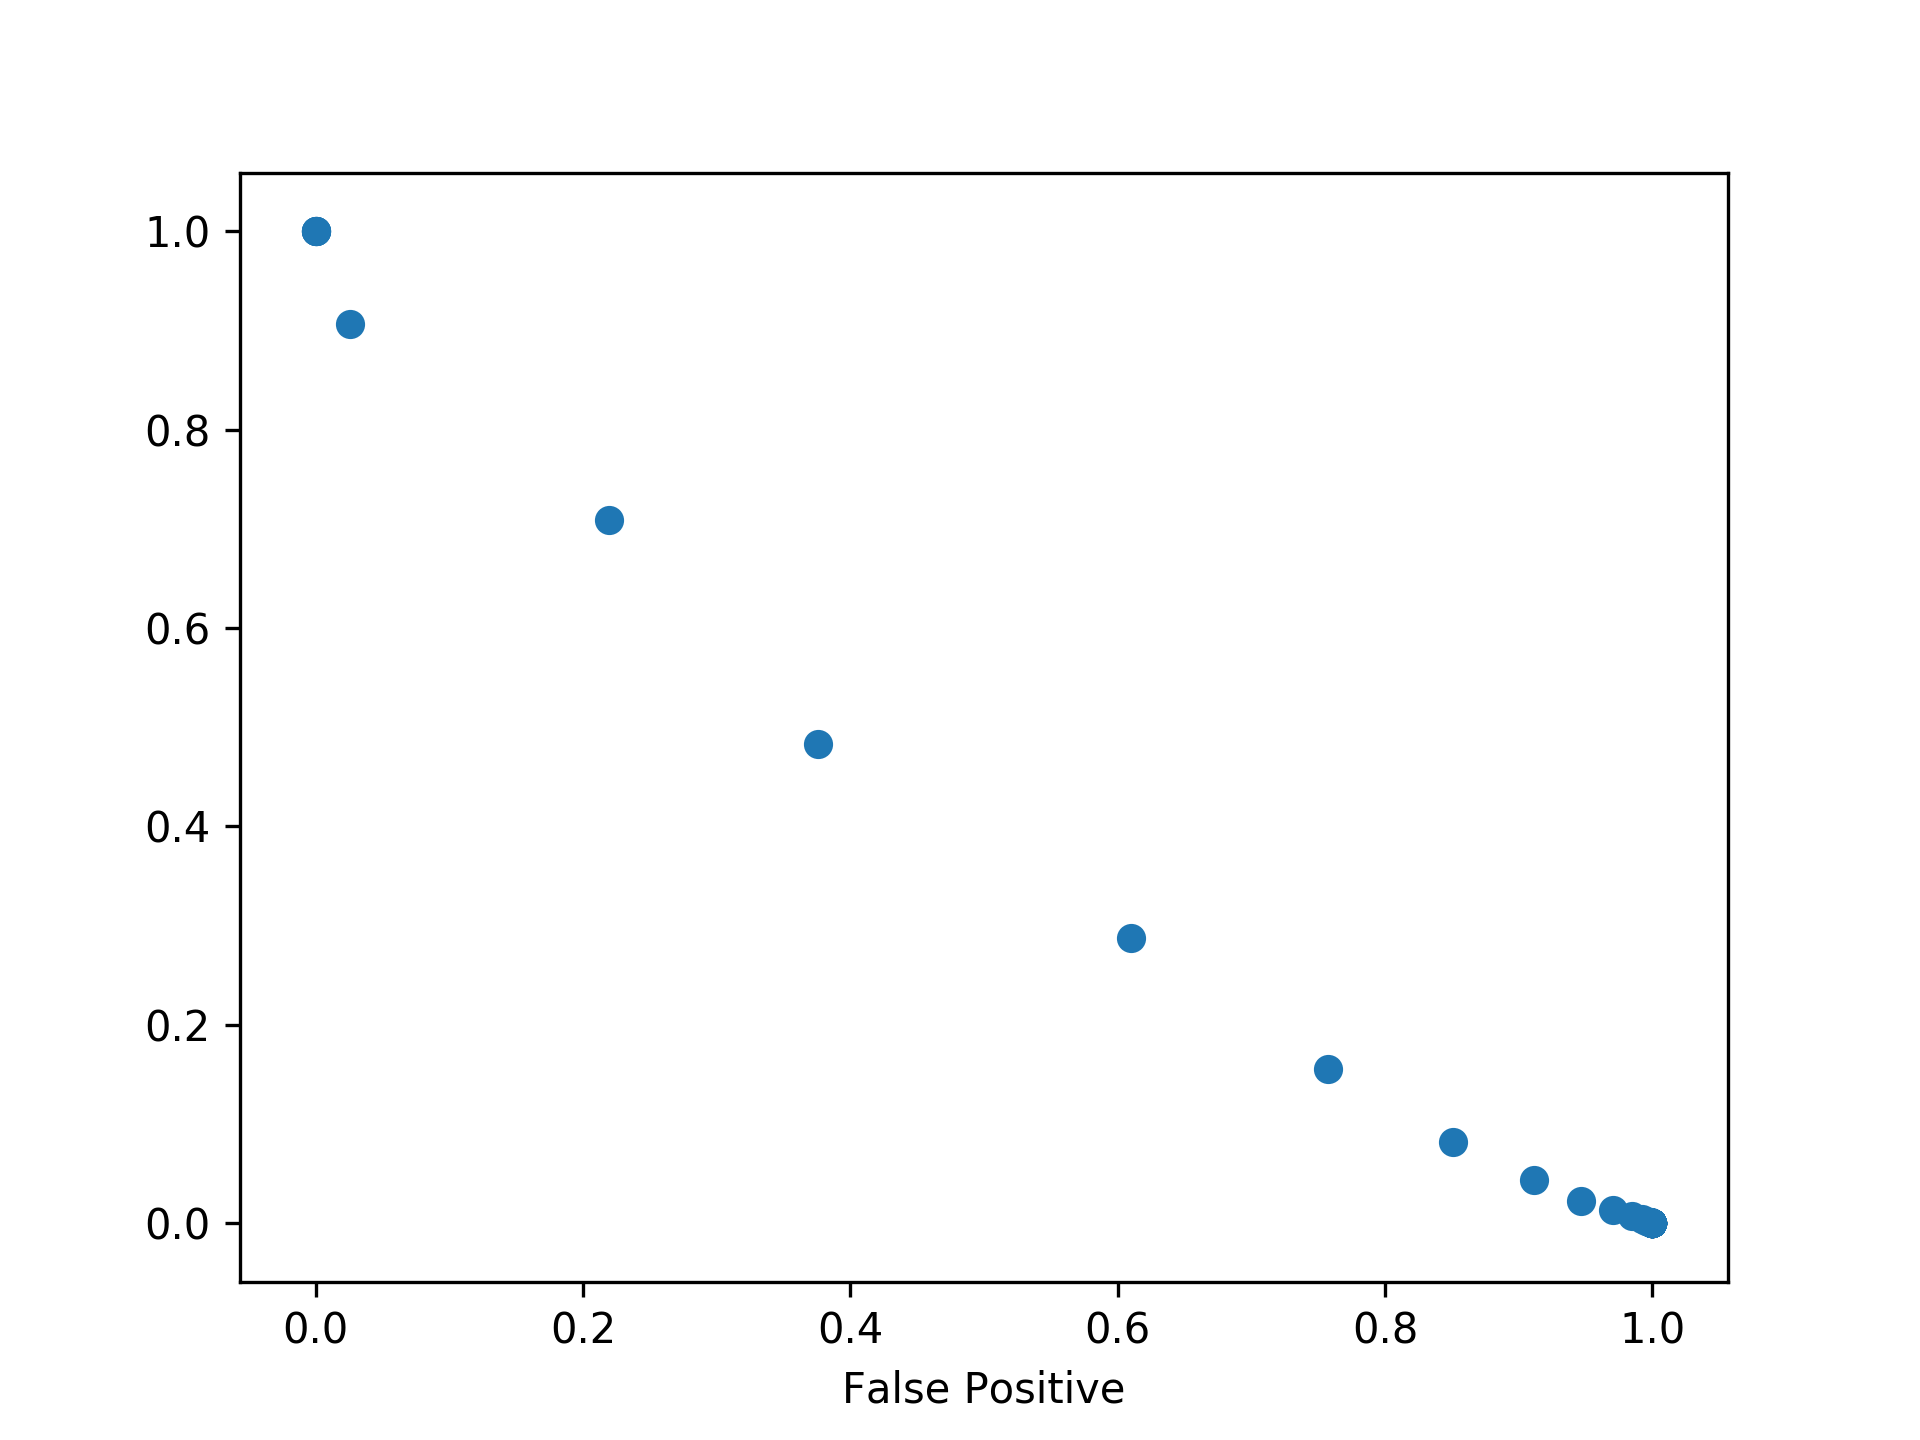
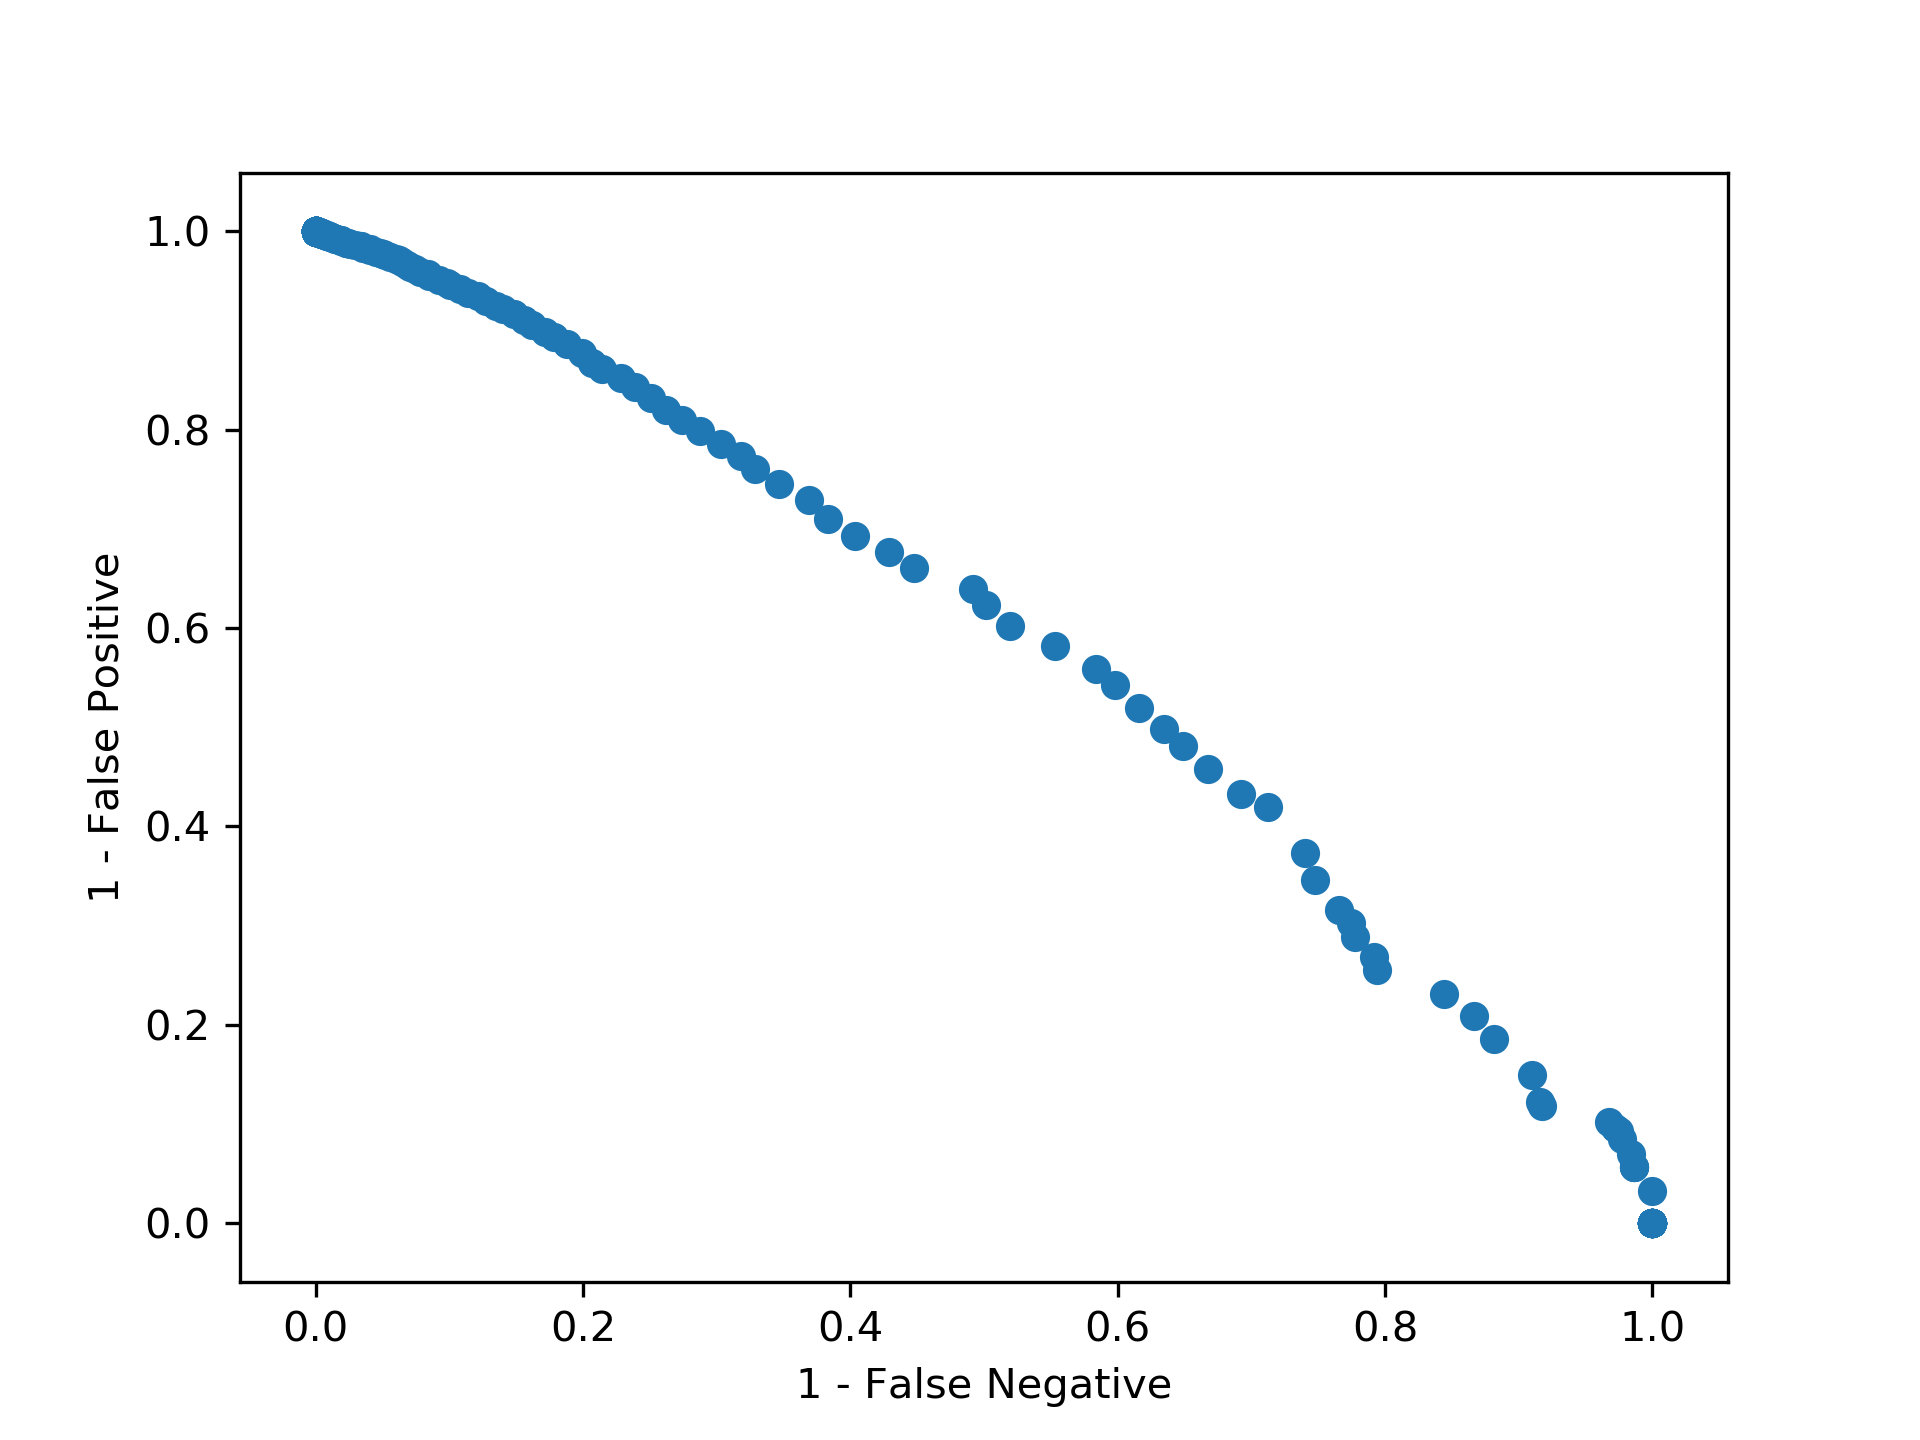
bug fix

diff --git a/classifier.py b/classifier.py
@@ -1,4 +1,5 @@
 import numpy as np
+from numpy import ndarray
 import matplotlib
 matplotlib.use('agg')
 from matplotlib import pyplot as plt
@@ -39,80 +40,100 @@ else:
     idffile = open("IDF_data_clean_lower.data", "r")
     IDF = json.loads(idffile.read())
 
-X = []
-Y = []
+words_not_in_description = set()
+frequency_of_words_not_in_description = []
 
 for i in range(len(content)):
-    for word in set(wordsofdescription[i]):
+    for word in set(wordsofname[i]):
         if word in stopWords:
             continue
-        idf = IDF[word]
-        tf = wordsofdescription[i].count(word) / len(wordsofdescription)
-        tfidf = idf * tf
-        wordlength = len(word)
-        X.append([tf, idf, tfidf, wordlength])
-        Y.append(float(word in wordsofname[i]))
+        if word not in wordsofdescription[i]:
+            words_not_in_description.add(word)
 
-X = np.array(X, dtype=float)
-Y = np.array(Y, dtype=float)
-
-X_train, X_test, Y_train, Y_test = train_test_split(X, Y, test_size=0.3, random_state=0)
-
-model = LogisticRegression(C=10)
-model.fit(X_train, Y_train)
-
-probtest = model.predict_proba(X_test)
-
-FNs = []
-FPs = []
-
-for threshhold in np.linspace(0, 1, 101):
-    Y_predict = 1.0 * (probtest > threshhold)
-    Y_predict = Y_predict[:, 1]
-    FN = ((1 - Y_predict) * (Y_test)).sum() / (Y_test).sum()
-    FP = (Y_predict * (1 - Y_test)).sum() / (1 - Y_test).sum()
-    FNs.append(FN)
-    FPs.append(FP)
-
-FNs = np.array(FNs)
-FPs = np.array(FPs)
+for word in words_not_in_description:
+    frequency_of_words_not_in_description.append(sum(
+        [term.count(word) for term in wordsofdescription]))
 
 plt.figure()
-plt.scatter(FNs, 1 - FPs)
-plt.xlabel("False Negative")
-plt.xlabel("1 - False Positive")
-plt.savefig("FP-FN.png", dpi=300)
+plt.hist(frequency_of_words_not_in_description)
+plt.show()
 
 
-# for i in range(29):
-#     AppearDict[i] = []
 
-# postfidf = [0, 0, 0, 0, 0, 0, 0, 0, 0, 0]
-# negtfidf = [0, 0, 0, 0, 0, 0, 0, 0, 0, 0]
+# X = []
+# Y = []
 
 # for i in range(len(content)):
-#     positiveweight = 0.0
-#     negativeweight = 0.0
-#     wordtfidf = dict()
-#     for word in wordsofname[i]:
+#     for word in set(wordsofdescription[i]):
+#         if word in stopWords:
+#             continue
 #         idf = IDF[word]
-#         tf = words[i].count(word) / len(words[i])
-#         tfidf = tf * idf
-#         if word not in stopWords:
-#             wordtfidf[word] = tfidf
-#             if word in wordsofdescription[i]:
-#                 positiveweight += tfidf
-#             else:
-#                 negativeweight += tfidf
-#     sordedwordbytfidf = list(reversed(sorted(wordtfidf.items(), key=operator.itemgetter(1))))
-#     if i < 10:
-#         print(sordedwordbytfidf)
-#     for j, v in enumerate(sordedwordbytfidf):
-#         if j >= 10:
-#             break
-#         if v[0] in wordsofdescription[i]:
-#             postfidf[j] += 1
-#         else:
-#             negtfidf[j] += 1
-#     temp = len(wordsofname[i])
-#     AppearDict[temp].append(positiveweight / (positiveweight + negativeweight))
+#         tf = wordsofdescription[i].count(word) / len(wordsofdescription)
+#         tfidf = idf * tf
+#         wordlength = len(word)
+#         X.append([tf, idf, tfidf, wordlength])
+#         Y.append(float(word in wordsofname[i]))
+
+# X = np.array(X, dtype=float)
+# Y = np.array(Y, dtype=float)
+
+# X_train, X_test, Y_train, Y_test = train_test_split(X, Y, test_size=0.3, random_state=0)
+
+# model = LogisticRegression(C=10)
+# model.fit(X_train, Y_train)
+
+# probtest = model.predict_proba(X_test)
+
+# FNs = []
+# FPs = []
+
+# for threshhold in np.linspace(0, 1, 1001):
+#     Y_predict = 1.0 * (probtest > threshhold)
+#     Y_predict = Y_predict[:, 1]
+#     FN = ((1 - Y_predict) * (Y_test)).sum() / (Y_test).sum()
+#     FP = (Y_predict * (1 - Y_test)).sum() / (1 - Y_test).sum()
+#     FNs.append(FN)
+#     FPs.append(FP)
+
+# FNn = np.array(FNs)
+# FPn: ndarray = np.array(FPs)
+
+# plt.figure()
+# plt.scatter(1 - FNn, 1 - FPn)
+# plt.xlabel("1 - False Negative")
+# plt.ylabel("1 - False Positive")
+# plt.savefig("FP-FN.png", dpi=300)
+
+
+# # for i in range(29):
+# #     AppearDict[i] = []
+
+# # postfidf = [0, 0, 0, 0, 0, 0, 0, 0, 0, 0]
+# # negtfidf = [0, 0, 0, 0, 0, 0, 0, 0, 0, 0]
+
+# # for i in range(len(content)):
+# #     positiveweight = 0.0
+# #     negativeweight = 0.0
+# #     wordtfidf = dict()
+# #     for word in wordsofname[i]:
+# #         idf = IDF[word]
+# #         tf = words[i].count(word) / len(words[i])
+# #         tfidf = tf * idf
+# #         if word not in stopWords:
+# #             wordtfidf[word] = tfidf
+# #             if word in wordsofdescription[i]:
+# #                 positiveweight += tfidf
+# #             else:
+# #                 negativeweight += tfidf
+# #     sordedwordbytfidf = list(reversed(sorted(wordtfidf.items(), key=operator.itemgetter(1))))
+# #     if i < 10:
+# #         print(sordedwordbytfidf)
+# #     for j, v in enumerate(sordedwordbytfidf):
+# #         if j >= 10:
+# #             break
+# #         if v[0] in wordsofdescription[i]:
+# #             postfidf[j] += 1
+# #         else:
+# #             negtfidf[j] += 1
+# #     temp = len(wordsofname[i])
+# #     AppearDict[temp].append(positiveweight / (positiveweight + negativeweight))
